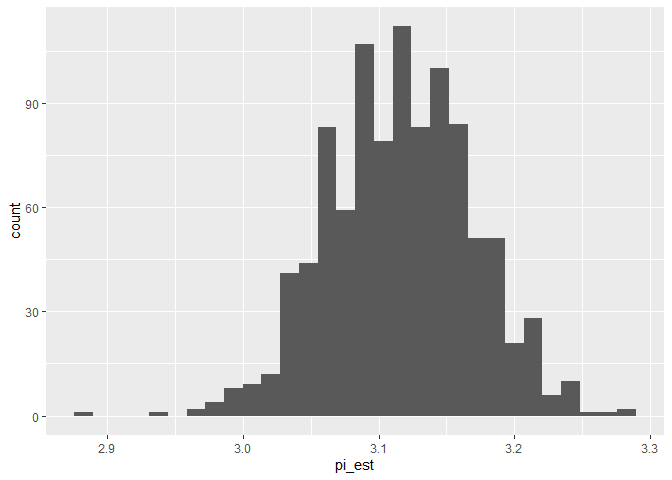
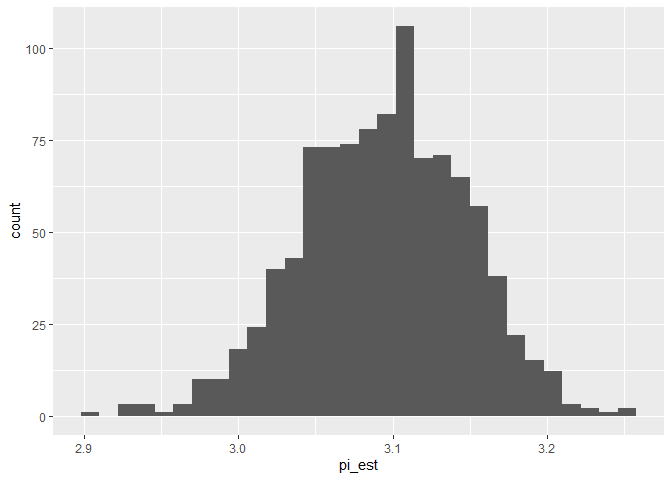
Challenge 7 - Monte Carlo - Final Submission

diff --git a/data-science-curriculum-build (2)/challenges/c07-monte-carlo-assignment.md b/data-science-curriculum-build (2)/challenges/c07-monte-carlo-assignment.md
@@ -276,10 +276,10 @@ assertthat::assert_that(
 ``` r
 # Check the value for points *outside* the circle
 assertthat::assert_that(
-  tibble(x = 0.7, y = 0.7) %>% 
+  tibble(x = 0.75, y = 0.75) %>% 
     mutate(stat = stat(x, y)) %>% 
     pull(stat) %>% 
-    .[[1]] == 4,
+    .[[1]] == 0,
   msg = "Incorrect value when a point is outside the circle"
 )
 ```
@@ -296,15 +296,12 @@ print("Your assertions passed, but make sure they're checking the right thing!")
 
 - You chose a correct value of `stat(x, y)` when `x, y` is *outside* the
   circle. Why did you choose this value?
-  - I initially went with (1, 1) for values because I was only looking
-    at the circle, but when I finally remembered the stat function I
-    made I realized that the result needed to be under or equal to 1 so
-    I found a number that work under that condition which ended up being
-    (0.7, 0.7)
+  - I chose 0 because the points outside of the circle shouldn’t be part
+    of our estimate to Pi
 - You chose a correct value of `stat(x, y)` when `x, y` is *inside* the
   circle. Why did you choose this value?
-  - (0.65, 0.65) is as close as I could get (within 0.05) to being
-    outside of the circle while being under it.
+  - We are working with a quarter circle which is 1/4 Pi, to get a full
+    Pi we want to scale by 4
 
 ### **q3** Estimate $\pi$
 
@@ -314,13 +311,13 @@ Using your data in `df_q1`, estimate $\pi$.
 ## TASK: Estimate pi using your data from q1
 df_q3 <- 
   df_q1 %>% 
-  mutate(in_circle = (x^2 + y^2 <= 1)) %>%
-  summarize(pi_est = 4 * mean(in_circle))
+  mutate(stat = (x^2 + y^2 <= 1)) %>%
+  summarize(pi_est = 4 * mean(stat))
 df_q3
 ```
 
     ##   pi_est
-    ## 1  3.116
+    ## 1  3.092
 
 Use the following to check that you’ve used the correct variable names.
 (NB. This does not check correctness.)
@@ -371,14 +368,14 @@ estimate. Answer the questions below.
 ## TASK: Finish the code below
 df_q4 <- 
   df_q1 %>% 
-  mutate(in_circle = (x^2 + y^2 <= 1)) %>%
+  mutate(stat = (x^2 + y^2 <= 1)) %>%
   bootstraps(times = 1000) %>% 
   mutate(
     pi_est = map_dbl(
       splits,
       function(split_df) {
         analysis(split_df) %>% 
-          summarize(pi_est = 4 * mean(in_circle)) %>%
+          summarize(pi_est = 4 * mean(stat)) %>%
           pull(pi_est)
       }
     )
@@ -398,9 +395,10 @@ df_q4 %>%
 
 - What is a range of plausible values, based on the sampling
   distribution you’ve generated?
-  - Between 3.1 and 3.2 is where I would say the majority of pi
+  - Between 3.0 and 3.2 is where I would say the majority of pi
     estimates are from a purely visual observation. The pi estimate we
-    found earlier is firmly within this range.
+    found earlier is firmly within this range, arroud 3.1 right in the
+    middle.
 
 ### **q5** Bootstrap percentile confidence interval
 
@@ -425,7 +423,7 @@ df_q5
     ## # A tibble: 1 × 2
     ##   pi_lo pi_up
     ##   <dbl> <dbl>
-    ## 1  3.02  3.22
+    ## 1  2.99  3.19
 
 ### **q6** CLT confidence interval
 
@@ -442,19 +440,27 @@ done something *wrong* in one of the tasks….
 
 ``` r
 df_q6 <- df_q1 %>%
+  mutate(stat = (x^2 + y^2 <= 1)) %>%
   summarize(
-    p_hat = mean(x^2 + y^2 <= 1),
+    p_hat = mean(stat),
     pi_hat = 4 * p_hat,
-    se = 4 * sqrt(p_hat * (1 - p_hat) / nrow(df_q1)),
+    sd = sd(stat),
+    n = n(),
+    se = sd / sqrt(n),
     pi_lo = pi_hat - qnorm(0.975) * se,
     pi_up = pi_hat + qnorm(0.975) * se
   ) %>%
   select(pi_lo, pi_up)
+
 df_q6
 ```
 
     ##      pi_lo    pi_up
-    ## 1 3.013134 3.218866
+    ## 1 3.066024 3.117976
+
+``` r
+  #se = 4 * sqrt(p_hat * (1 - p_hat) / nrow(df_q1)),
+```
 
 **Observations**:
 
@@ -462,11 +468,11 @@ df_q6
   - (Bootstrap CI: yes or no?) Yes
   - (CLT CI: yes or no?) Yes
 - How closely do your bootstrap CI and CLT CI agree?
-  - They are pretty close together, the CLT CI values are slightly
-    higher then the bootstrap CI values but they are off by a value of
-    0.01 and have a very similar range of numbers , including the actual
-    value of pi being relatively in the center of the low and high
-    values.
+  - They are pretty close together but the CLT CI values have a wider
+    range then the bootstrap CI. The bootstrap CI has a smaller range
+    and the upper value for pi is very close to Pi’s actual value
+    (within 0.001), where as the CTL CI surpasses Pi by 0.1 which is a
+    pretty big difference.
 - Comment on the width of your CI(s). Would your estimate of $\pi$ be
   good enough for roughly estimating an area (e.g., to buy enough paint
   for an art project)? Would your estimate of $\pi$ be good enough for
@@ -483,10 +489,9 @@ df_q6
     decent estimate but it it still diverges from the actual pi value as
     the second decimal point.
 - What would be a *valid* way to make your CI more narrow?
-  - Adding more n values would potentially give us a closer estimate,
-    also identifying the closest possible values for being in the circle
-    and out of the circle would help bring us closer to the actual
-    values of pi.
+  - Adding more n values would potentially give us a closer estimate, a
+    larger sample size will decrease SE so the confidence interval gets
+    smaller
 
 # References
 
